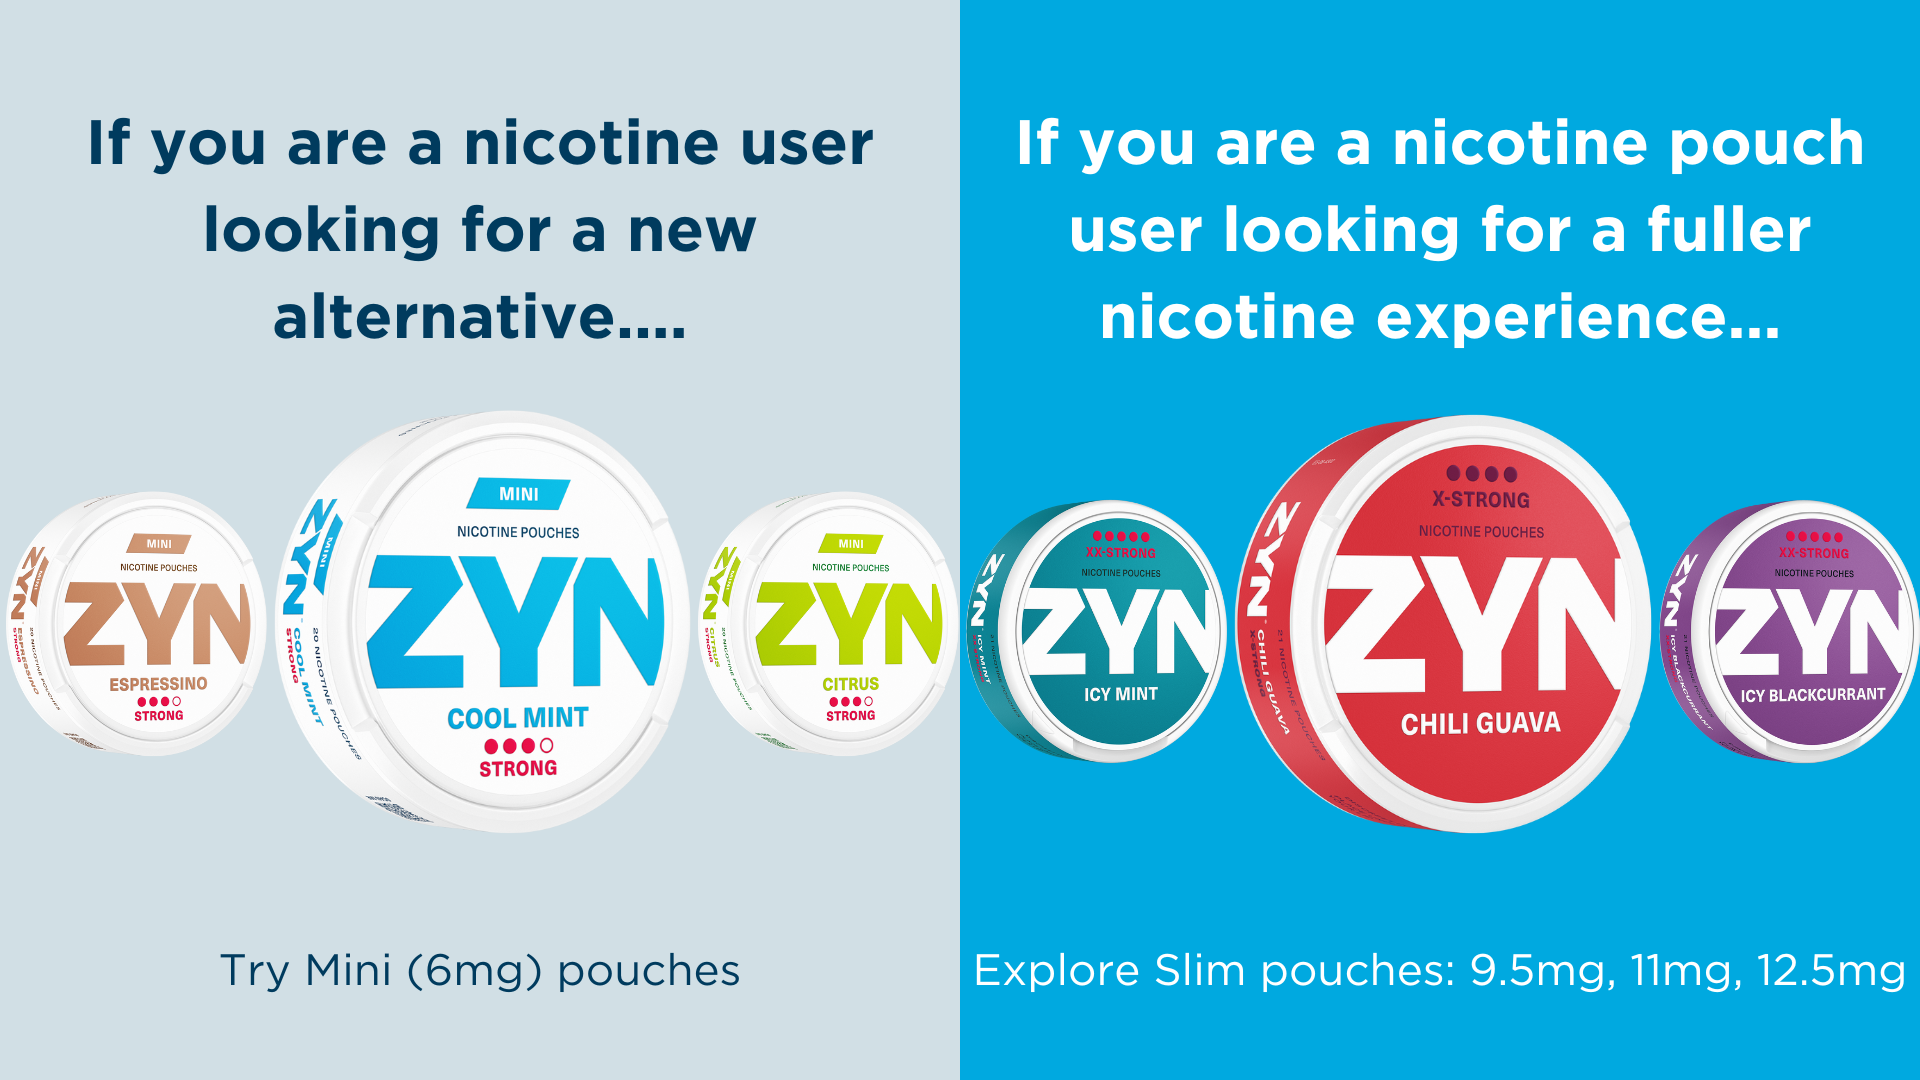
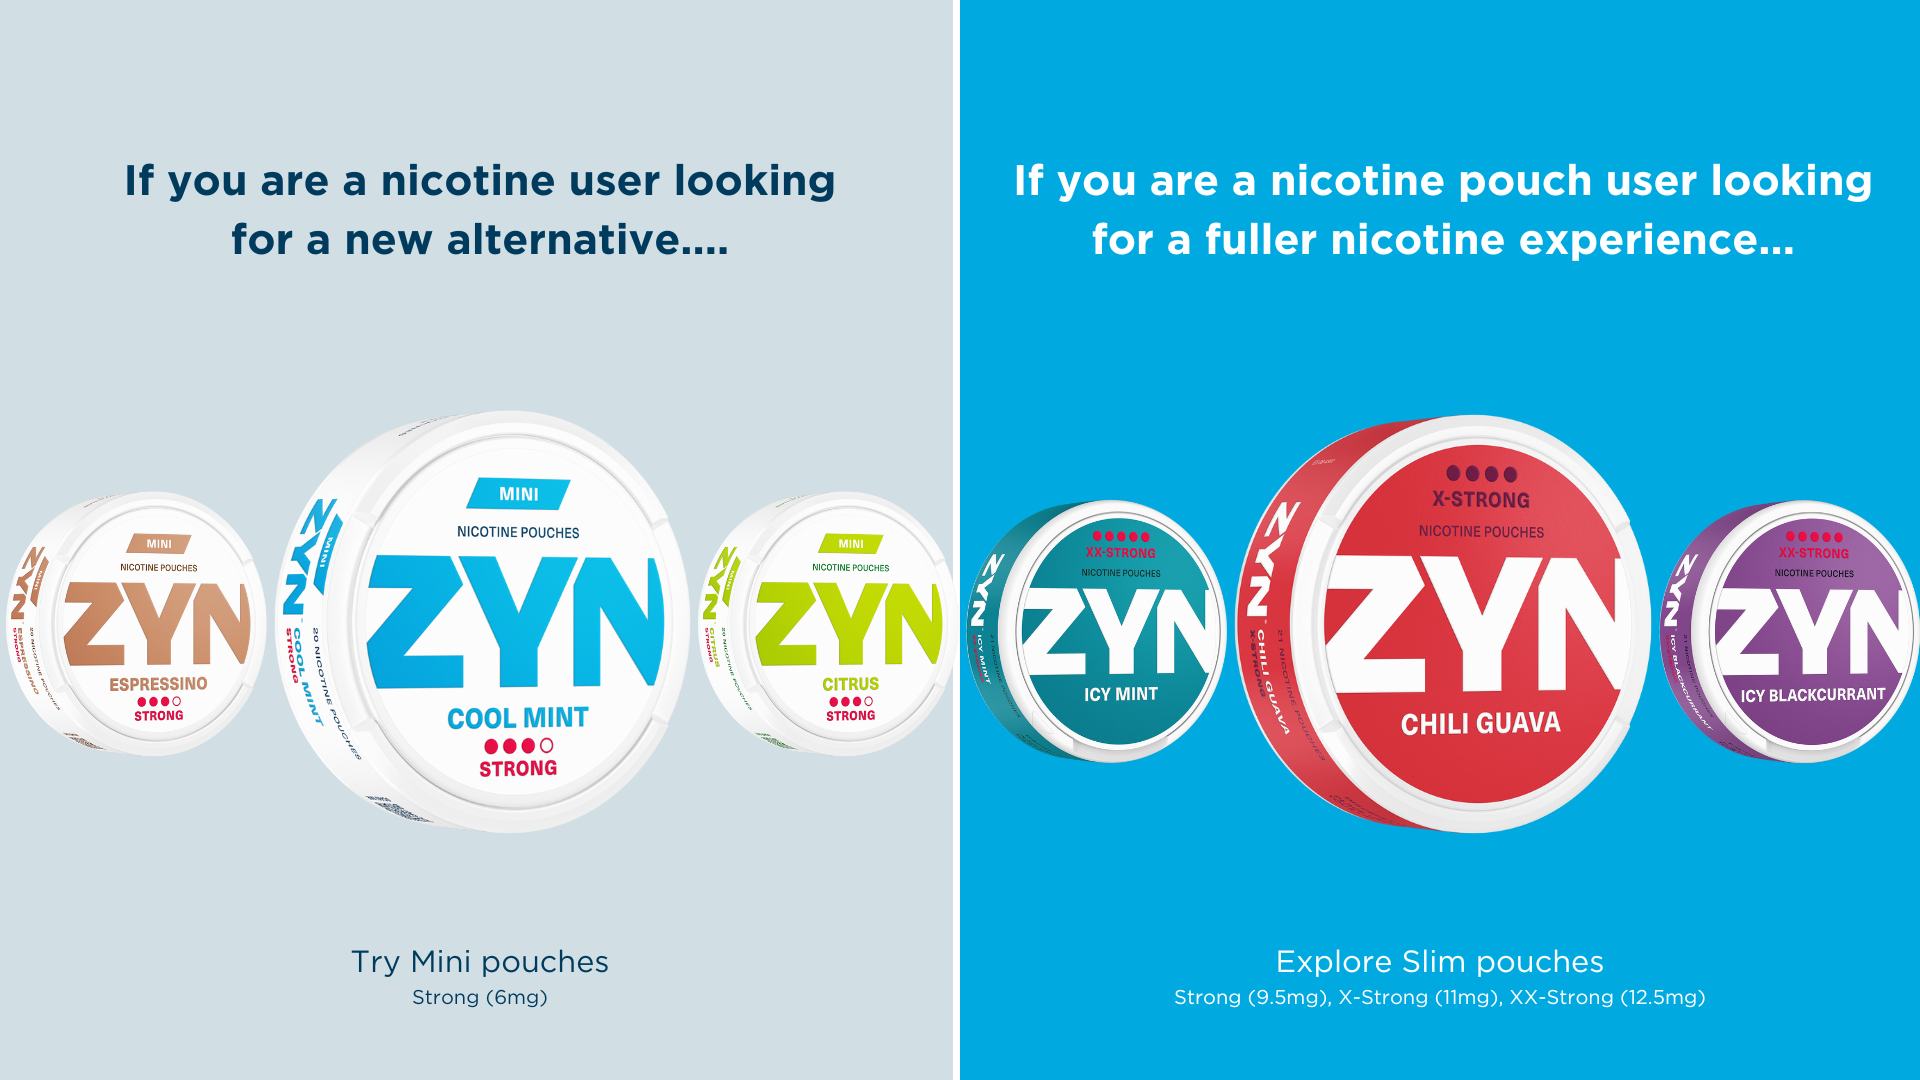
24.06. changes

diff --git a/src/pages/blogPosts/howNicotinePouchesWork/Index.tsx b/src/pages/blogPosts/howNicotinePouchesWork/Index.tsx
@@ -1,3 +1,4 @@
+import { Link } from "react-router-dom";
 import styles from "../Index.module.css";
 import banner from "./bpost1.png";
 
@@ -18,7 +19,7 @@ function BPost1() {
 
 			<ul className={styles.list}>
 				<li className={styles.listItem}>Break the seal to open the can.</li>
-				<li className={styles.listItem}>Pop a ZYN® pouch under your lip.</li>
+				<li className={styles.listItem}>Pop a ZYN pouch under your lip.</li>
 				<li className={styles.listItem}>You may experience a tingling sensation that we at ZYN call ZYNGLE.</li>
 			</ul>
 
@@ -32,7 +33,7 @@ function BPost1() {
 
 			<p className={styles.paragraph}>Nicotine pouches are typically found as small, pillow-shaped pouches that contain nicotine, cellulose and flavourings. Being tobacco-free and combustion-free, nicotine pouches can be an alternative to smoking. However, exactly what a nicotine pouch contains, and whether it is a viable smoke-free alternative to cigarettes, will depend on the specific product.</p>
 
-			<p className={styles.paragraph}>Take our range of ZYN nicotine pouches as an example. ZYN is the innovative, high-quality alternative to smoking that delivers unique flavours and a smoke-free nicotine experience wherever, whenever.  The ZYN portfolio consists of three products – Mini, Mini+ and Classic – each designed to deliver a different experience.  Explore ZYN Mini, Mini+ and Classic.</p>
+			<p className={styles.paragraph}>Take our range of ZYN nicotine pouches as an example. ZYN is the innovative, high-quality alternative to smoking that delivers unique flavours and a smoke-free nicotine experience wherever, whenever.</p>
 
 			<h2 className={styles.subTitle}>When and Where Can I Use Nicotine Pouches?</h2>
 
@@ -46,9 +47,9 @@ function BPost1() {
 
 			<p className={styles.paragraph}>How often you use nicotine pouches will depend on a couple of factors, such as your own personal preferences and the product you’re using. Nicotine pouches can come in a range of different sizes, flavours and strengths, which may offer varying experiences.</p>
 
-			<p className={styles.paragraph}>How many ZYNs a day do people have? Some adult users may only have a couple of ZYN pouches a day, others may have more. How many ZYNs a day you have may be influenced by the type of experience you prefer as well as which ZYN product you’re opting for - as ZYN’s products come in different sizes and nicotine strengths. ZYN can be kept in your mouth for up to 30 minutes, but at least 5-10 minutes.</p>
+			<p className={styles.paragraph}>How many ZYNs a day do people have? Some adult users may only have a couple of ZYN pouches a day, others may have more. How many ZYNs a day you have may be influenced by the type of experience you prefer as well as which ZYN product you’re opting for - as ZYN’s products come in different sizes and nicotine strengths.</p>
 
-			<p className={styles.paragraph}>If you’re a smoker looking for a tobacco-free alternative we’d propose to start with the lower nicotine strengths (3mg, 6mg) and Mini pouches from the ZYN range.   Looking for a fuller nicotine experience? Choose ZYN’s range of medium to strong nicotine pouches. </p>
+			<p className={styles.paragraph}>If you’re a smoker or vaper looking for a tobacco-free alternative we’d propose to start with the lower nicotine strengths (6mg) and Mini pouches from the ZYN range.   Looking for a fuller nicotine experience? Choose ZYN’s range of Strong to XX-Strong nicotine pouches. </p>
 
  			<p className={styles.paragraph}>You can find out more on which nicotine strength of ZYN may suit you via our article on ‘What Strength of ZYN is Right for You?’</p>
 
@@ -62,7 +63,7 @@ function BPost1() {
 
 			<h2 className={styles.subTitle}>Where to Buy ZYN Nicotine Pouches</h2>
 			
-			<p className={styles.paragraph}>You can shop the full range of ZYN nicotine pouches here on our website.</p>
+			<p className={styles.paragraph}>You can purchase ZYN nicotine pouches online (check out the page <Link to="/where-to-buy">Where to Buy</Link>), but they are also widely available in several stores and local retailers.</p>
 			
 			<p className={styles.paragraph}>Smoke-free products are not risk-free and provide nicotine, which is addictive. The best decision any adult smoker can make is to quit tobacco and nicotine use altogether. Smoke-free products are not alternatives to quitting and are not designed as cessation aids.</p>
  

diff --git a/src/components/common/footer/Index.tsx b/src/components/common/footer/Index.tsx
@@ -1,41 +1,45 @@
-import { Link } from 'react-router-dom';
+import { Link, useLocation } from 'react-router-dom';
 import global from '../../Global.module.css';
 import styles from './Footer.module.css';
 
 function Footer() {
+    const location = useLocation();
+
     return (
         <>
-		<hr className={styles.hr}/>
-		<div className={`${styles.text} ${global.wrapper}`}>
-			<p className={styles.warningText}>This product is not risk-free and contains nicotine, which is addictive.<br/> Only for use by adults.</p>
-			<p className={styles.smaller}>* PMI reported global shipment volumes and in-market sales estimates of nicotine pouch units, from January to June 2023.</p>
-		</div>
-		<div className={styles.background}>
+            <hr className={styles.hr}/>
+            <div className={`${styles.text} ${global.wrapper}`}>
+                <p className={styles.warningText}>This product is not risk-free and contains nicotine, which is addictive.<br/> Only for use by adults.</p>
+                {location.pathname === '/discover-zyn' && (
+                    <p className={styles.smaller}>* PMI reported global shipment volumes and in-market sales estimates of nicotine pouch units, from January to June 2023.</p>
+                )}
+            </div>
+            <div className={styles.background}>
                 <footer id={styles.footer}>
                     <div className={`${styles.links} ${styles.item}`}>
-						<h2 className={styles.footerTitle}>Helpful Links</h2>
+                        <h2 className={styles.footerTitle}>Helpful Links</h2>
                         <ul className={styles.list}>
                             <li className={styles.listItem}><Link className={styles.link} to='/what-is-zyn' onClick={() => window.scrollTo({top: 0})}>What is ZYN?</Link></li>
                             <li className={styles.listItem}><Link className={styles.link} to='/where-to-buy' onClick={() => window.scrollTo({top: 0})}>Find ZYN</Link></li>
                         </ul>
                     </div>
-					<div className={`${styles.links} ${styles.item}`}>
-						<h2 className={styles.footerTitle}>Customer Care</h2>
+                    <div className={`${styles.links} ${styles.item}`}>
+                        <h2 className={styles.footerTitle}>Customer Care</h2>
                         <ul className={styles.list}>
                             <li className={styles.listItem}><Link className={styles.link} to='/faq' onClick={() => window.scrollTo({top: 0})}>FAQs</Link></li>
                         </ul>
-					</div>
+                    </div>
                 </footer>
-		</div>
-		<div className={styles.legal}>
-			<span>© 2023 Philip Morris Products SA</span>
-			<ul className={styles.legalList}>
-				<li><Link className={styles.legalLink} to="https://www.pmiprivacy.com/global/en/consumer/">Privacy Notice</Link></li>
-				<li><Link className={styles.legalLink} onClick={() => window.scrollTo({top: 0})} to="/terms-of-use">Terms of Use</Link></li>
-				<li><button id="ot-sdk-btn" className={`ot-sdk-show-settings ${styles.cookieBtn}`}>Cookie Settings</button></li>
-				<li><Link className={styles.legalLink} onClick={() => window.scrollTo({top: 0})} to="/important-information">Important Information</Link></li>
-			</ul>
-		</div>
+            </div>
+            <div className={styles.legal}>
+                <span>© 2023 Philip Morris Products SA</span>
+                <ul className={styles.legalList}>
+                    <li><Link className={styles.legalLink} to="https://www.pmiprivacy.com/global/en/consumer/">Privacy Notice</Link></li>
+                    <li><Link className={styles.legalLink} onClick={() => window.scrollTo({top: 0})} to="/terms-of-use">Terms of Use</Link></li>
+                    <li><button id="ot-sdk-btn" className={`ot-sdk-show-settings ${styles.cookieBtn}`}>Cookie Settings</button></li>
+                    <li><Link className={styles.legalLink} onClick={() => window.scrollTo({top: 0})} to="/important-information">Important Information</Link></li>
+                </ul>
+            </div>
         </>
     );
 }

diff --git a/src/pages/howToZyn/Questions.tsx b/src/pages/howToZyn/Questions.tsx
@@ -43,12 +43,12 @@ function Questions() {
                 <div className={styles.title} onClick={() => toggleCollapse(1)}><div className={styles.listTitle}>Which ZYN nicotine pouch is right for me?</div><div className={styles.listTitle}>{signs[1]}</div></div>
                 <div className={styles.content} style={{ display: collapsedStates[1] ? 'none' : 'block'}}>
                     <p className={styles.p}>
-                    ZYN nicotine pouches are available in a variety of nicotine strengths and pouch sizes so you can choose the intensity of your nicotine experience.<br/><br/><strong>If you are a nicotine user looking for a new alternative:</strong> We suggest starting with a lower nicotine strength: try Mini (6mg) pouches from the ZYN range.<br/><br/><strong>If you are a nicotine pouch user:</strong> Discover our Slim range: 9.5mg, 11mg and 12.5mg.<br/><Link className={styles.link} to="/which-zyn-to-choose" onClick={scrollToTop}>Read more here.</Link>
+                    ZYN nicotine pouches are available in a variety of nicotine strengths and pouch sizes so you can choose the intensity of your nicotine experience.<br/><br/><strong>If you are a nicotine user looking for a new alternative:</strong> We suggest starting with a lower nicotine strength: try Mini (6mg) pouches from the ZYN range.<br/><br/><strong>If you are a nicotine pouch user:</strong> Discover our Slim pouches: Strong (9.5mg), X-Strong (11mg), and XX-Strong (12.5mg)<br/><Link className={styles.link} to="/which-zyn-to-choose" onClick={scrollToTop}>Read more here.</Link>
                     </p>
                 </div>
                </li>
                <li className={styles.listItem}>
-                <div className={styles.title} onClick={() => toggleCollapse(2)}><div className={styles.listTitle}>Can I try/use different ZYN Nicotine pouch strengths/flavours at the same time/same day?</div><div className={styles.listTitle}>{signs[2]}</div></div>
+                <div className={styles.title} onClick={() => toggleCollapse(2)}><div className={styles.listTitle}>Can I use different ZYN nicotine pouches at the same time? And can I try different flavours or strengths in the same day?</div><div className={styles.listTitle}>{signs[2]}</div></div>
                 <div className={styles.content} style={{ display: collapsedStates[2] ? 'none' : 'block'}}>
                     <p className={styles.p}>
                     Do not use more than one ZYN nicotine pouch at the same time. ZYN nicotine pouches in different strengths and flavours can be used in the same day depending on legal age user’s nicotine preferences.

diff --git a/src/pages/importantInformation/Index.tsx b/src/pages/importantInformation/Index.tsx
@@ -20,7 +20,7 @@ function ImportantInformation() {
 				<li className={styles.listItem}>Some users of nicotine-containing products may experience abdominal pain, chest pain, choking sensation, cough, difficulty breathing, dizziness, dry mouth, dry throat, gingivitis, headache, malaise, nasal stuffiness, nausea, mouth irritation, palpitations, throat irritation, and vomitin.</li>
 				<li className={styles.listItem}>Nicotine-containing products should not be used by people who have or are at risk of heart disease, are diabetic, are epileptic, or are experiencing seizure.</li>
 				<li className={styles.listItem}>Nicotine-containing products should not be used during pregnancy or while breast-feeding.  If you are pregnant, breast-feeding, or think you may be pregnant, you should quit tobacco and nicotine use altogethe.</li>
-				<li className={styles.listItem}>Using nicotine pouches or, in some cases, stopping use of nicotine pouches  (or other nicotine-containing products) may require the adjustment of the dosing of certain medicines (e.g. theophylline, clozapine, ropinirole).  If you have questions about whether you should use nicotine pouches given an existing health condition, consult a health care professiona.</li>
+				<li className={styles.listItem}>Using nicotine pouches or, in some cases, stopping use of nicotine pouches  (or other nicotine-containing products) may require the adjustment of the dosing of certain medicines (e.g. theophylline, clozapine, ropinirole).  If you have questions about whether you should use nicotine pouches given an existing health condition, consult a health care professional.</li>
 
 			</ul>
 

diff --git a/src/pages/home/Images.tsx b/src/pages/home/Images.tsx
@@ -30,32 +30,32 @@ const images = [
   },
   {
     src: imageFour,
-    title: "ZYN Cool Mint 9.5mg - Slim",
+    title: "ZYN Cool Mint (Slim) - 9.5mg",
     description: "An intense cooling taste of fresh peppermint",
   },
   {
     src: imageFive,
-    title: "ZYN Icy Mint 9.5mg - Slim",
+    title: "ZYN Icy Mint (Slim) - 9.5mg",
     description: "A cooling taste of eucalyptus and menthol",
   },
   {
     src: imageSix,
-    title: "ZYN Cool Mint 11mg - Slim",
+    title: "ZYN Cool Mint (Slim) - 11mg",
     description: "An intense cooling taste of fresh peppermint",
   },
   {
     src: imageSeven,
-    title: "ZYN Chili Guava 11mg - Slim",
+    title: "ZYN Chili Guava (Slim) - 11mg",
     description: "A fruity taste of guava and chili",
   },
   {
     src: imageEight,
-    title: "ZYN Icy Mint 12.5mg - Slim",
+    title: "ZYN Icy Mint (Slim) - 12.5mg",
     description: "A cooling taste of eucalyptus and menthol",
   },
   {
     src: imageNine,
-    title: "ZYN Icy Blackcurrant 12.5mg - Slim",
+    title: "ZYN Icy Blackcurrant (Slim) - 12.5mg",
     description: "A cooling taste of menthol topped with the flavour of dark berries",
   },
 ];
@@ -105,6 +105,7 @@ function Images() {
 
   return (
       <div className={styles.container}>
+		<h3 className={styles.sectionTitle}>ZYN is...<br/> Flavour you feel</h3>
         <div className={styles.carousel}>
           {images.map((image, index) => (
             <div

diff --git a/src/pages/blogPosts/whatIsNicotine/Index.tsx b/src/pages/blogPosts/whatIsNicotine/Index.tsx
@@ -32,7 +32,7 @@ function BPost2() {
 
 			<h2 className={styles.subTitle}>Explore Smoke-Free Nicotine Products</h2>
 
-			<p className={styles.paragraph}>ZYN offers a range of different nicotine pouch products, including Mini and Classic    - all of which come in a variety of flavours. If you’re interested in learning more, explore the full list of ZYN products.  You can also find more information on nicotine pouches via our blog, which explores topics like the cost of smoking cigarettes vs using ZYN.</p>
+			<p className={styles.paragraph}>ZYN offers a range of different nicotine pouch products, including Mini and Slim - all of which come in a variety of flavours. If you’re interested in learning more, explore the full list of ZYN products.</p>
 			Smoke-free products are not risk-free and provide nicotine, which is addictive. The best decision any adult smoker can make is to quit tobacco and nicotine use altogether. Smoke-free products are not alternatives to quitting and are not designed as cessation aids.  
 			
 			<p className={styles.paragraph}>This article is for general information and educational purposes. Some of the information in this article is based on external, third-party sources and we make no representations or warranties of any kind regarding the accuracy, validity or completeness of such information.</p>

diff --git a/src/pages/discoverZyn/Carousel.tsx b/src/pages/discoverZyn/Carousel.tsx
@@ -21,9 +21,9 @@ function Carousel() {
             <h3 className={styles.cardTitle}>Discreet & Considerate</h3>
             <p className={styles.cardParagraph}>
               With no ash, no smoke & no smoke smell, nicotine pouches are a
-              cleaner way to enjoy nicotine. They also don’t require any device
+              cleaner way to experience nicotine. They also don’t require any device
               & are simple to use – you just place the small, white pouches
-              between your upper lip and gum & enjoy the flavour & nicotine as
+              between your upper lip and gum & experience the flavour & nicotine as
               they are released.
             </p>
           </div>
@@ -48,7 +48,7 @@ function Carousel() {
             <br />
             <h3 className={styles.cardTitle}>High Quality</h3>
             <p className={styles.cardParagraph}>
-              ZYN® is made up of high quality nicotine and food-grade
+              ZYN is made up of high quality nicotine and food-grade
               ingredients. The pouch itself is made from plant fibers, specially
               designed to release nicotine while feeling comfortable under your
               lip.

diff --git a/src/pages/howToZyn/Image.tsx b/src/pages/howToZyn/Image.tsx
@@ -24,8 +24,8 @@ function Image() {
 						<img src={two} alt="" />
 					</div>
 					<div className={styles.cardInfo}>
-						<p className={styles.biggerP}><strong>Place a Zyn pouch under your lip.</strong></p>
-						<p className={styles.smallerP}>You may experience a tingiling sensation.</p>
+						<p className={styles.biggerP}><strong>Place a ZYN pouch under your lip.</strong></p>
+						<p className={styles.smallerP}>You may experience a tingling sensation.</p>
 					</div>
 				</div>
 				<div className={styles.card}>
@@ -41,7 +41,7 @@ function Image() {
 						<img src={four} alt="" />
 					</div>
 					<div className={styles.cardInfo}>
-						<p className={styles.biggerP}><strong>You can keep the used puches</strong></p>
+						<p className={styles.biggerP}><strong>You can keep the used pouches</strong></p>
 						<p className={styles.smallerP}>in the compartment on the lid.</p>
 					</div>
 				</div>

diff --git a/src/pages/faq/Faq.tsx b/src/pages/faq/Faq.tsx
@@ -162,7 +162,7 @@ function FAQ() {
                 <div className={styles.title} onClick={() => toggleCollapse(17)}><div className={styles.listTitle}>Can I recycle the nicotine pouches? Are they degradable?</div><div className={styles.listTitle}>{signs[17]}</div></div>
                 <div className={styles.content} style={{ display: collapsedStates[17] ? 'none' : 'block'}}>
                     <p className={styles.p}>
-					The pouch, and its contents, is not currently recyclable. Please dispose of your used Zyn pouches in general waste.
+					The pouch, and its contents, is not currently recyclable. Please dispose of your used ZYN pouches in general waste.
                     </p>
                 </div>
                </li>

diff --git a/src/pages/discoverZyn/Content.tsx b/src/pages/discoverZyn/Content.tsx
@@ -5,7 +5,7 @@ function Content() {
     return (
         <div className={`${global.wrapper}`}>
 			<h2 className={styles.title}>Discover ZYN</h2>
-            <p className={styles.p}>ZYN is an innovative alternative to smoking that provides a smoke and vapour free nicotine experience - wherever, whenever.
+            <p className={styles.p}>A tobacco-free alternative to smoking and vaping that come in a variety of flavours and nicotine strengths designed to satisfy your taste.
 			</p>
         </div>
     );

diff --git a/src/pages/home/DiscoverZyn.tsx b/src/pages/home/DiscoverZyn.tsx
@@ -8,7 +8,7 @@ function DiscoverZyn() {
 	return (
 	  <div className={global.wrapper}>
 		<h2 className={styles.title}>Discover ZYN</h2>
-		<p>A tobacco-free alternative to smoking filled with flavours and nicotine strengths designed to satisfy your taste.</p>
+		<p>ZYN is an innovative alternative to smoking that provides a smoke and vapour free nicotine experience - wherever, whenever.</p>
 
 		<div>
 			<div className={styles.discoverWrapper}>

diff --git a/src/pages/discoverZyn/TextLeft.module.css b/src/pages/discoverZyn/TextLeft.module.css
@@ -17,7 +17,7 @@
 	padding: 20px 50px;
 	background-color: #00a9e0;
 	flex-direction: column;
-	align-items: start;
+	align-items: center;
 	gap: 20px;
 }
 
@@ -28,6 +28,15 @@
 .colorWhite {
 	color: #fff;
 	font-size: 1.7vw;
+}
+
+.buyBtn {
+	margin-bottom: 20px;
+	padding: 10px 15px;
+	border: none;
+	cursor: pointer;
+	color: #003b5e;
+	font-weight: bold;
 }
 
 @media (max-width: 1230px) {
